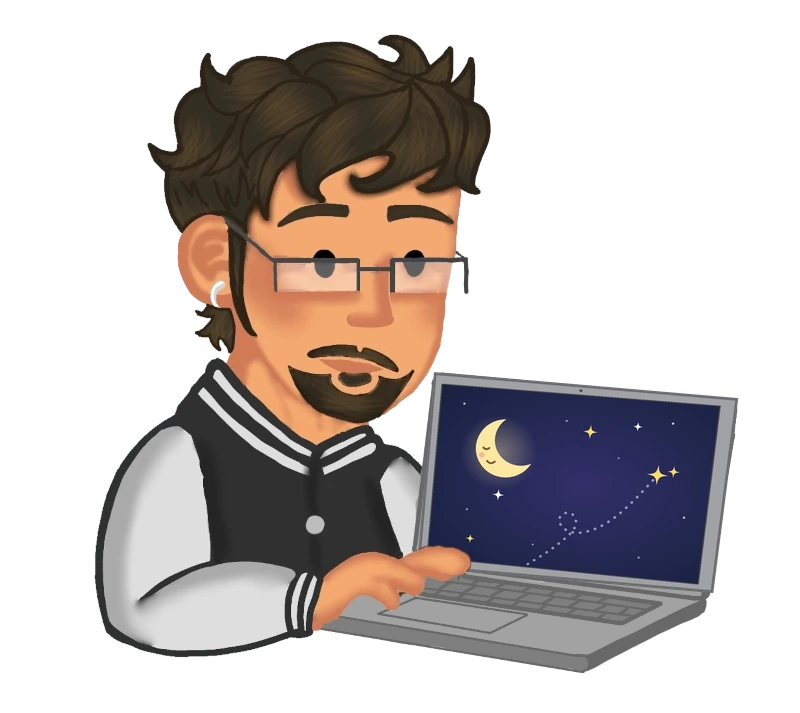
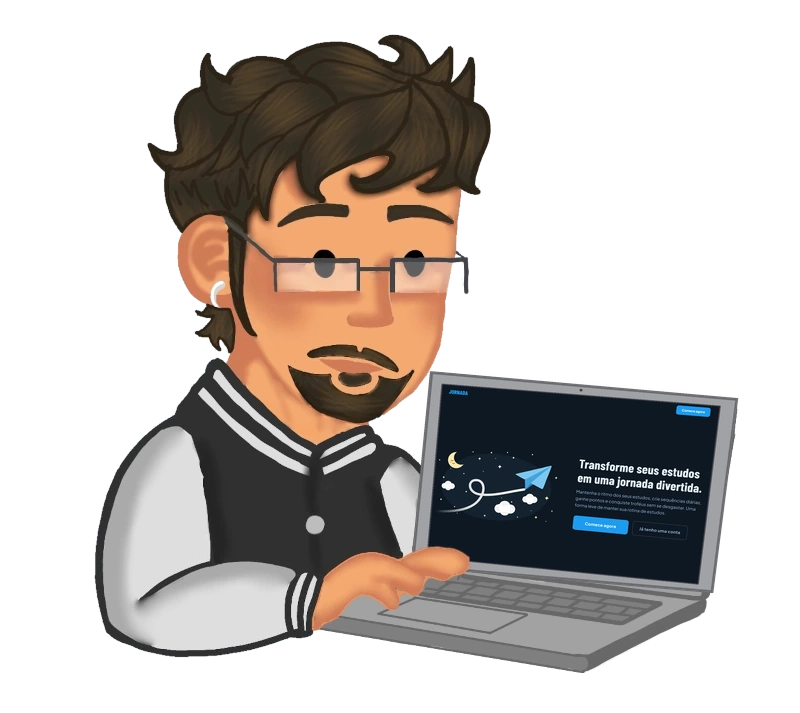
ajustes no mobile

Changed region(s): [[0.5, 0.5245, 0.9062, 0.8331]]

diff --git a/index.html b/index.html
@@ -81,14 +81,27 @@
             <stop offset="0" class="ceu-stop-1"/>
             <stop offset="1" class="ceu-stop-2"/>
         </radialGradient>
+        <symbol id="logo-sol" viewBox="-80 -80 160 160">
+            <g stroke="#f6c94c" stroke-width="9" stroke-linecap="round"><path d="M0,-74 v14 M0,60 v14 M-74,0 h14 M60,0 h14 M-52,-52 l10,10 M42,42 l10,10 M-52,52 l10,-10 M42,-42 l10,-10"/></g>
+            <circle r="46" fill="#fbd65a"/>
+            <path d="M-24,-6 q6,-7 12,0 M12,-6 q6,-7 12,0" stroke="#7a5a3a" stroke-width="3.5" fill="none" stroke-linecap="round"/>
+            <path d="M-14,10 q14,16 28,0 z" fill="#7a5a3a"/>
+            <circle cx="-30" cy="8" r="6" fill="#f5a9a0" opacity=".8"/><circle cx="30" cy="8" r="6" fill="#f5a9a0" opacity=".8"/>
+        </symbol>
+        <symbol id="logo-lua" viewBox="-80 -80 160 160">
+            <circle r="62" fill="#fbe7a1" mask="url(#lua-mascara)"/>
+            <path d="M-46,2 q6,6 12,0" stroke="#7a5a3a" stroke-width="4" fill="none" stroke-linecap="round"/>
+            <path d="M-36,30 q8,8 16,0" stroke="#7a5a3a" stroke-width="4" fill="none" stroke-linecap="round"/>
+            <circle cx="-48" cy="18" r="6" fill="#f5a9a0" opacity=".75"/>
+        </symbol>
         <mask id="lua-mascara" maskUnits="userSpaceOnUse" x="-80" y="-80" width="160" height="160"><circle r="62" fill="#fff"/><circle cx="30" cy="-20" r="54" fill="#000"/></mask>
     </defs>
 </svg>
 
 <!-- Header -->
     <header class="header">
-        <a href="#home" class="logo-link">
-            <span class="logo-texto">Rafael Trajano</span>
+        <a href="#home" class="logo-link" aria-label="Rafael Trajano, voltar ao início">
+            <svg class="logo-astro logo-astro-sol" aria-hidden="true"><use href="#logo-sol"/></svg><svg class="logo-astro logo-astro-lua" aria-hidden="true"><use href="#logo-lua"/></svg><span class="sr-only">Rafael Trajano</span>
         </a>
         <div class="menu">
             <button class="tema-toggle" type="button" role="switch" aria-checked="false" aria-label="Tema escuro">
@@ -118,7 +131,7 @@
 <!-- Nav -->
     <nav class="nav" id="nav-principal" aria-label="Menu principal">
         <div class="nav-header">
-            <span class="nav-logo-texto">Rafael Trajano</span>
+            <span class="nav-logo"><svg class="logo-astro logo-astro-sol" aria-hidden="true"><use href="#logo-sol"/></svg><svg class="logo-astro logo-astro-lua" aria-hidden="true"><use href="#logo-lua"/></svg><span class="sr-only">Rafael Trajano</span></span>
             <button class="menu-fechar" aria-label="Fechar menu">✕</button>
         </div>
         <ul>
@@ -162,10 +175,15 @@
                 <use href="#ceu-sp" class="ceu-brilho" transform="translate(60 200) scale(.8)"/>
                 <use href="#ceu-sp" class="ceu-brilho ceu-brilho-branco" transform="translate(40 120) scale(.7)"/>
                 <use href="#ceu-sp" class="ceu-brilho" transform="translate(395 175) scale(.9)"/>
-                <circle class="ceu-ponto" cx="300" cy="120" r="2"/><circle class="ceu-ponto" cx="140" cy="300" r="1.8"/>
+                <circle class="ceu-ponto" cx="300" cy="120" r="2"/>
+                <use href="#ceu-sp" class="ceu-brilho" transform="translate(205 45) scale(.7)"/>
+                <use href="#ceu-sp" class="ceu-brilho ceu-brilho-branco" transform="translate(350 70) scale(.9)"/>
+                <use href="#ceu-sp" class="ceu-brilho" transform="translate(160 235) scale(.6)"/>
+                <use href="#ceu-sp" class="ceu-brilho ceu-brilho-branco" transform="translate(255 205) scale(.55)"/>
+                <use href="#ceu-sp" class="ceu-brilho" transform="translate(110 320) scale(.7)"/>
+                <use href="#ceu-sp" class="ceu-brilho ceu-brilho-branco" transform="translate(390 255) scale(.6)"/>
+                <circle class="ceu-ponto" cx="180" cy="110" r="1.6"/><circle class="ceu-ponto" cx="330" cy="225" r="1.6"/><circle class="ceu-ponto" cx="70" cy="140" r="1.5"/><circle class="ceu-ponto" cx="140" cy="300" r="1.8"/>
                 <circle class="ceu-ponto" cx="230" cy="250" r="1.6"/><circle class="ceu-ponto" cx="90" cy="60" r="1.6"/>
-                <path class="ceu-trilha ilustra-trilha" d="M0,345 C70,320 130,300 170,262 C205,228 178,196 152,212 C126,228 152,272 210,258 C280,240 330,170 372,96"/>
-                <use href="#ceu-sp" class="ceu-brilho" transform="translate(380 82) scale(2.4)"/>
                 <g class="sobre-lua" transform="translate(115 105) scale(.85)">
                     <circle r="62" fill="#fbe7a1" mask="url(#lua-mascara)"/>
                     <path d="M-46,2 q6,6 12,0" stroke="#7a5a3a" stroke-width="3.5" fill="none" stroke-linecap="round"/>
@@ -181,6 +199,7 @@
                 </g>
                 <g class="ceu-nuvem">
                     <g transform="translate(250 300)"><circle r="28"/><circle cx="33" cy="-14" r="36"/><circle cx="70" cy="2" r="26"/><circle cx="98" cy="10" r="18"/><rect width="98" height="30"/></g>
+                    <g transform="translate(300 150)"><circle r="18"/><circle cx="20" cy="-8" r="23"/><circle cx="44" cy="2" r="16"/><rect width="44" height="16"/></g>
                     <g transform="translate(40 280)"><circle r="16"/><circle cx="18" cy="-7" r="20"/><circle cx="38" cy="2" r="14"/><rect width="38" height="14"/></g>
                 </g>
             </svg>
@@ -195,26 +214,11 @@
       <!-- Ilustração sobre o céu -->
       <div class="sobre-imagem sobre-boneco">
         <svg class="sobre-boneco-ceu" viewBox="0 0 340 340" preserveAspectRatio="xMidYMid slice" aria-hidden="true">
-          <circle class="ceu-ponto" cx="150" cy="22" r="1.8"/><circle class="ceu-ponto" cx="230" cy="70" r="1.6"/>
-          <circle class="ceu-ponto" cx="18" cy="140" r="1.5"/><circle class="ceu-ponto" cx="322" cy="205" r="1.8"/>
-          <circle class="ceu-ponto" cx="200" cy="318" r="1.6"/>
-          <use href="#ceu-sp" class="ceu-brilho" transform="translate(178 34) scale(.8)"/>
-          <use href="#ceu-sp" class="ceu-brilho ceu-brilho-branco" transform="translate(26 196) scale(.7)"/>
-          <use href="#ceu-sp" class="ceu-brilho" transform="translate(318 150) scale(.75)"/>
-          <use href="#ceu-sp" class="ceu-brilho ceu-brilho-branco" transform="translate(110 318) scale(.6)"/>
-          <!-- sol (claro) e lua (escuro) no canto -->
-          <g class="sobre-lua" transform="translate(52 56) scale(.42)">
-            <circle r="62" fill="#fbe7a1" mask="url(#lua-mascara)"/>
-            <path d="M-46,2 q6,6 12,0" stroke="#7a5a3a" stroke-width="5" fill="none" stroke-linecap="round"/>
-            <path d="M-36,30 q8,8 16,0" stroke="#7a5a3a" stroke-width="5" fill="none" stroke-linecap="round"/>
-            <circle cx="-48" cy="18" r="6" fill="#f5a9a0" opacity=".75"/>
-          </g>
-          <g class="sobre-sol" transform="translate(50 54) scale(.4)">
-            <g stroke="#f6c94c" stroke-width="10" stroke-linecap="round"><path d="M0,-74 v14 M0,60 v14 M-74,0 h14 M60,0 h14 M-52,-52 l10,10 M42,42 l10,10 M-52,52 l10,-10 M42,-42 l10,-10"/></g>
-            <circle r="46" fill="#fbd65a"/>
-            <path d="M-24,-6 q6,-7 12,0 M12,-6 q6,-7 12,0" stroke="#7a5a3a" stroke-width="5" fill="none" stroke-linecap="round"/>
-            <path d="M-14,10 q14,16 28,0 z" fill="#7a5a3a"/>
-          </g>
+          <use href="#ceu-sp" class="ceu-brilho" transform="translate(258 95) scale(.9)"/>
+          <use href="#ceu-sp" class="ceu-brilho ceu-brilho-branco" transform="translate(318 155) scale(.75)"/>
+          <use href="#ceu-sp" class="ceu-brilho" transform="translate(290 240) scale(.7)"/>
+          <use href="#ceu-sp" class="ceu-brilho ceu-brilho-branco" transform="translate(32 150) scale(.6)"/>
+          <use href="#ceu-sp" class="ceu-brilho" transform="translate(48 250) scale(.6)"/>
         </svg>
         <img class="boneco-dia" src="imagens/desenho-rafael.webp" alt="Ilustração de Rafael Trajano, Full-Stack Developer" loading="lazy">
         <img class="boneco-noite" src="imagens/desenho-rafael-noite.webp" alt="Ilustração de Rafael Trajano, Full-Stack Developer" loading="lazy">
@@ -225,7 +229,7 @@
       <h2>Minha Jornada</h2>
       <div class="texto-sobre">
         <p>
-          Olá, me chamo Rafael Trajano, sou graduando em <strong>Ciência da Computação</strong> pela Universidade Estadual da Paraíba e estagiário de Engenharia de Software no <strong>NUTES</strong>.
+          Olá, me chamo Rafael Trajano, sou graduando em <strong>Ciência da Computação</strong> pela UEPB e estagiário de Engenharia de Software no <strong>NUTES</strong>.
           Também desenvolvi o <strong>Jornada</strong>, um sistema de estudos gamificado que é o meu TCC.
         </p>
         <p>
@@ -422,7 +426,7 @@
 
 <footer class="footer">
     <a href="#home" class="footer-logo">
-        <span class="footer-logo-texto">Rafael Trajano</span>
+        <svg class="logo-astro logo-astro-sol" aria-hidden="true"><use href="#logo-sol"/></svg><svg class="logo-astro logo-astro-lua" aria-hidden="true"><use href="#logo-lua"/></svg><span class="sr-only">Rafael Trajano</span>
     </a>
     <div class="footer-info">
         <p class="footer-copyright">© 2026 Rafael Trajano — Todos os direitos reservados</p>

diff --git a/style.css b/style.css
@@ -727,9 +727,10 @@ main {
 }
 
 .home-cta .cta {
-    min-width: 210px;
+    min-width: 0;
+    width: 210px;
     font-size: 1rem;
-    padding: 14px 32px;
+    padding: 14px 16px;
     border-radius: 12px;
     border: 2px solid transparent;
 }
@@ -963,8 +964,7 @@ main {
 }
 
 .projetos-card.animar:hover {
-    transform: translateY(-10px);
-    
+    transform: translateY(-6px);
 }
 
 .projetos-card-link {
@@ -986,15 +986,13 @@ main {
     transition: transform 0.6s ease;
 }
 
-.projetos-card:hover .projetos-img-wrap img {
-    transform: scale(1.06);
-}
+
 
 .projetos-img-wrap::after {
     content: '';
     position: absolute;
     inset: 0;
-    background: linear-gradient(to top, rgba(108, 46, 158, 0.55), transparent 65%);
+    background: none;
     opacity: 0;
     transition: var(--transition);
 }
@@ -1007,12 +1005,12 @@ main {
     position: absolute;
     left: 16px;
     bottom: 16px;
-    padding: 6px 14px;
+    padding: 5px 12px;
     border-radius: 999px;
-    background: rgba(108, 46, 158, 0.25);
-    backdrop-filter: blur(6px);
+    background: var(--cor-botao);
+    box-shadow: 0 4px 12px rgba(0, 0, 0, 0.25);
     color: var(--cor-branca);
-    font-size: 0.7rem;
+    font-size: 0.68rem;
     font-weight: 700;
     letter-spacing: 0.04em;
     text-transform: uppercase;
@@ -1308,18 +1306,23 @@ main {
         padding: 4px 6px;
     }
 
+    /* mesmo tamanho dos cards de contato */
+    .tecnologias-lista {
+        gap: 10px;
+    }
+
     .tecnologias-card {
-        width: 96px;
-        gap: 8px;
+        width: 70px;
+        gap: 10px;
         border-radius: var(--radius-lg);
     }
 
     .tecnologias-card .icone {
-        font-size: 30px;
+        font-size: 26px;
     }
 
     .tecnologias-card p {
-        font-size: 0.7rem;
+        font-size: 0.6rem;
     }
 
     /* Projetos */
@@ -1494,4 +1497,111 @@ main {
 
 .sobre-boneco img {
     width: 86%;
+}
+
+/* Logo: sol no tema claro, lua no tema escuro */
+.logo-link,
+.footer-logo,
+.nav-logo {
+    display: inline-flex;
+    align-items: center;
+}
+
+.logo-astro {
+    width: 44px;
+    height: 44px;
+    overflow: visible;
+}
+
+.footer-logo .logo-astro {
+    width: 52px;
+    height: 52px;
+}
+
+.logo-astro-lua { display: none; }
+[data-tema="escuro"] .logo-astro-sol { display: none; }
+[data-tema="escuro"] .logo-astro-lua { display: block; }
+
+.sr-only {
+    position: absolute;
+    width: 1px;
+    height: 1px;
+    padding: 0;
+    margin: -1px;
+    overflow: hidden;
+    clip: rect(0, 0, 0, 0);
+    white-space: nowrap;
+    border: 0;
+}
+
+/* Celular: Sobre centralizado */
+@media (max-width: 768px) {
+    .sobre-conteudo,
+    .sobre-conteudo h2 {
+        text-align: center;
+    }
+
+    .texto-sobre p {
+        text-align: left;
+    }
+}
+
+/* Celular: início mais limpo, sem a frase */
+@media (max-width: 768px) {
+    .home-desc {
+        display: none;
+    }
+}
+
+/* Celular: seletor de tema compacto (um ícone só, mostra o tema para o qual vai mudar) */
+@media (max-width: 768px) {
+    .tema-toggle {
+        width: 38px;
+        height: 38px;
+        border-radius: 50%;
+        display: flex;
+        align-items: center;
+        justify-content: center;
+        background-color: var(--cor-caixa);
+    }
+
+    .tema-bolinha {
+        display: none;
+    }
+
+    .tema-icone,
+    [data-tema="escuro"] .tema-icone-sol,
+    [data-tema="escuro"] .tema-icone-lua {
+        width: 22px;
+        height: 22px;
+        opacity: 1;
+        transform: none;
+    }
+
+    [data-tema="claro"] .tema-icone-sol,
+    [data-tema="escuro"] .tema-icone-lua {
+        display: none;
+    }
+}
+
+/* Sobre: boneco sobre uma elipse de céu, como nas seções do Jornada e na ilustração do início */
+.sobre-imagem.sobre-boneco {
+    background: none;
+    box-shadow: none;
+    overflow: visible;
+    padding: 0;
+}
+
+.sobre-boneco-ceu {
+    inset: auto;
+    left: 2%;
+    top: 14%;
+    width: 112%;
+    height: 82%;
+    border-radius: 50%;
+    background: radial-gradient(ellipse at 50% 45%, var(--ceu-1) 0%, var(--ceu-2) 100%);
+}
+
+.sobre-boneco img {
+    width: 100%;
 }
